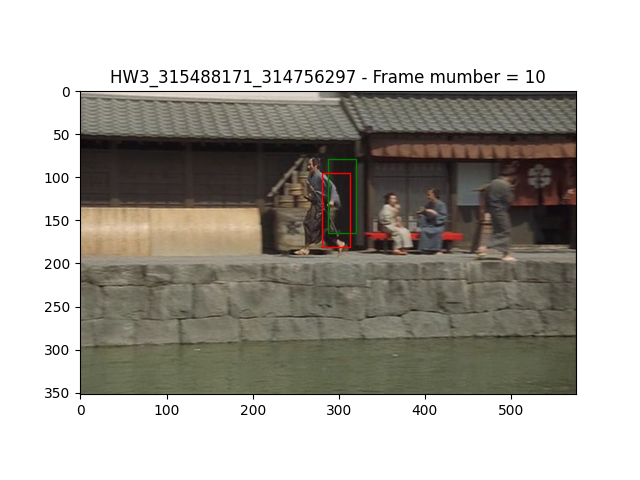
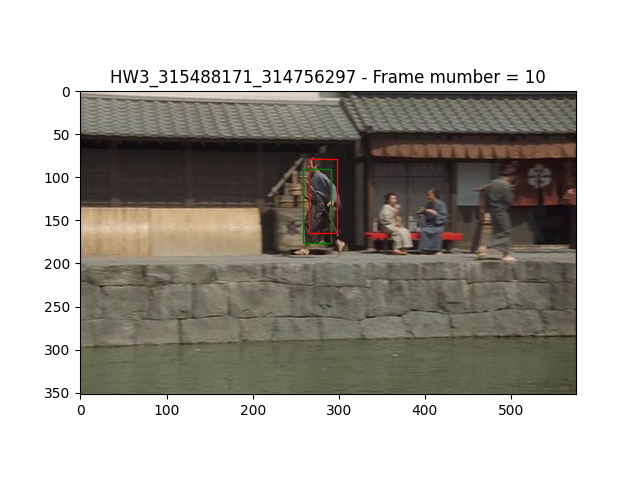
Fix Bug

Changed region(s): [[0.4688, 0.3125, 0.5625, 0.5312]]

diff --git a/particle_filter.py b/particle_filter.py
@@ -20,10 +20,10 @@ N = 100
 
 # set random noise parameters
 mu = 0
-sigma_pos_x = 5
-sigma_pos_y = 5
-sigma_vel_x = 2
-sigma_vel_y = 2
+sigma_pos_x = 2
+sigma_pos_y = 2
+sigma_vel_x = 0.8
+sigma_vel_y = 0.8
 
 # number of histogram bits
 
@@ -41,10 +41,10 @@ s_initial = [297,  # x center
 def add_noise(state: np.ndarray) -> np.ndarray:
     """ Add normal random noise to our state
     """
-    state[0, :] = state[0, :] + (np.random.normal(mu, sigma_pos_x, size=(1, N)))
-    state[1, :] = state[1, :] + (np.random.normal(mu, sigma_pos_y, size=(1, N)))
-    state[4, :] = state[4, :] + (np.random.normal(mu, sigma_vel_x, size=(1, N)))
-    state[5, :] = state[5, :] + (np.random.normal(mu, sigma_vel_y, size=(1, N)))
+    state[0, :] = state[0, :] + np.round(np.random.normal(mu, sigma_pos_x, size=(1, N)))
+    state[1, :] = state[1, :] + np.round(np.random.normal(mu, sigma_pos_y, size=(1, N)))
+    state[4, :] = state[4, :] + np.round(np.random.normal(mu, sigma_vel_x, size=(1, N)))
+    state[5, :] = state[5, :] + np.round(np.random.normal(mu, sigma_vel_y, size=(1, N)))
     return state
 
 
@@ -140,8 +140,8 @@ def sample_particles(previous_state: np.ndarray, cdf: np.ndarray) -> np.ndarray:
     s_init = np.array([297, 139, 16, 43, 0, 0])
 
     S_next = np.zeros((6, N))
-    S_next[:,0] = s_init
-    for particle_idx in range(1,N):
+    S_next[:, 0] = s_init
+    for particle_idx in range(1, N):
         r = np.random.uniform(0, 1)
         j = np.argmax(cdf >= r)
         S_next[:, particle_idx] = previous_state[:, j]
@@ -177,7 +177,7 @@ def show_particles(image: np.ndarray, state: np.ndarray, W: np.ndarray, frame_in
 
     # Avg particle box
     avg_W = np.average(W)
-    avg_index = (np.abs(W-avg_W)).argmin()
+    avg_index = (np.abs(W - avg_W)).argmin()
     (x_avg, y_avg, w_avg, h_avg) = state[:4, avg_index]
     x_avg -= w_avg
     y_avg -= h_avg
@@ -269,7 +269,7 @@ def main():
 
         # COMPUTE NORMALIZED WEIGHTS (W) AND PREDICTOR CDFS (C)
         # YOU NEED TO FILL THIS PART WITH CODE:
-        W, C = calculate_weights_and_CDF(q, image, S)
+        W, C = calculate_weights_and_CDF(q, current_image, S)
 
         # CREATE DETECTOR PLOTS
         images_processed += 1
